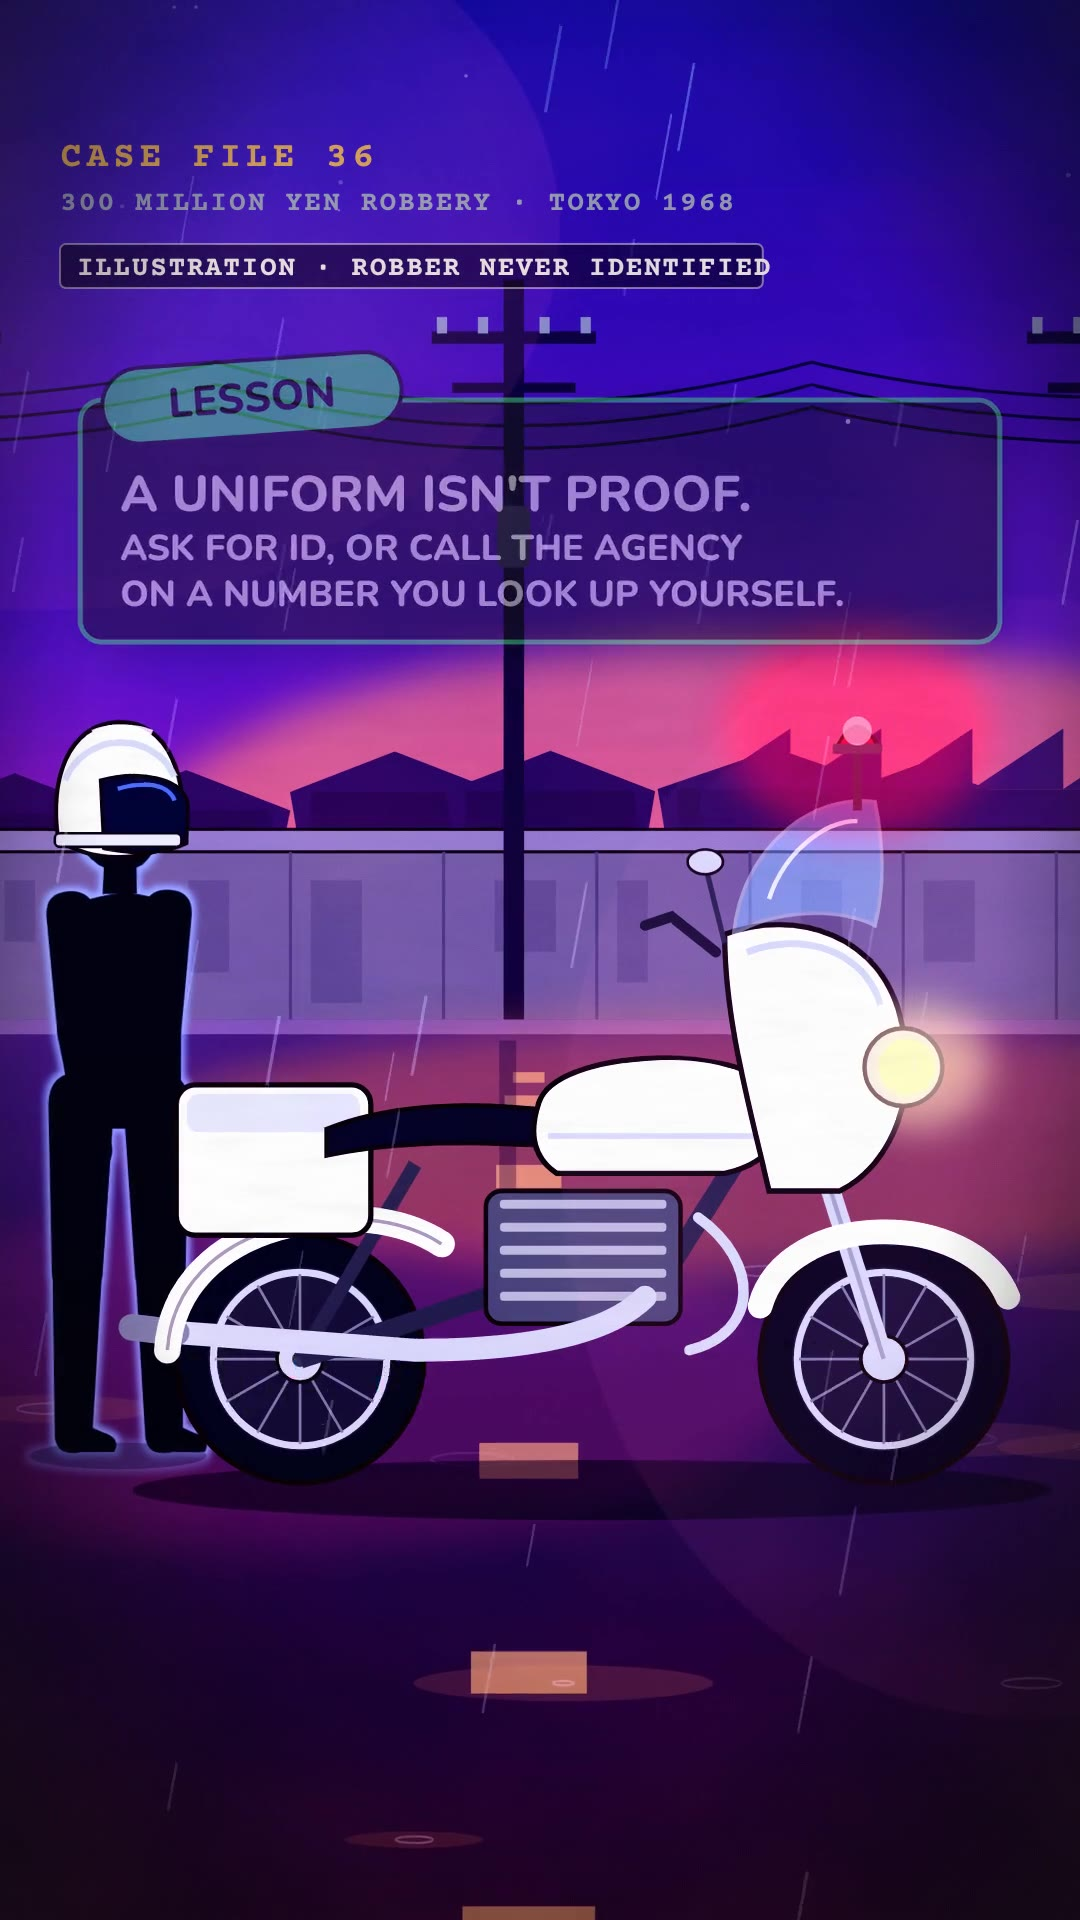
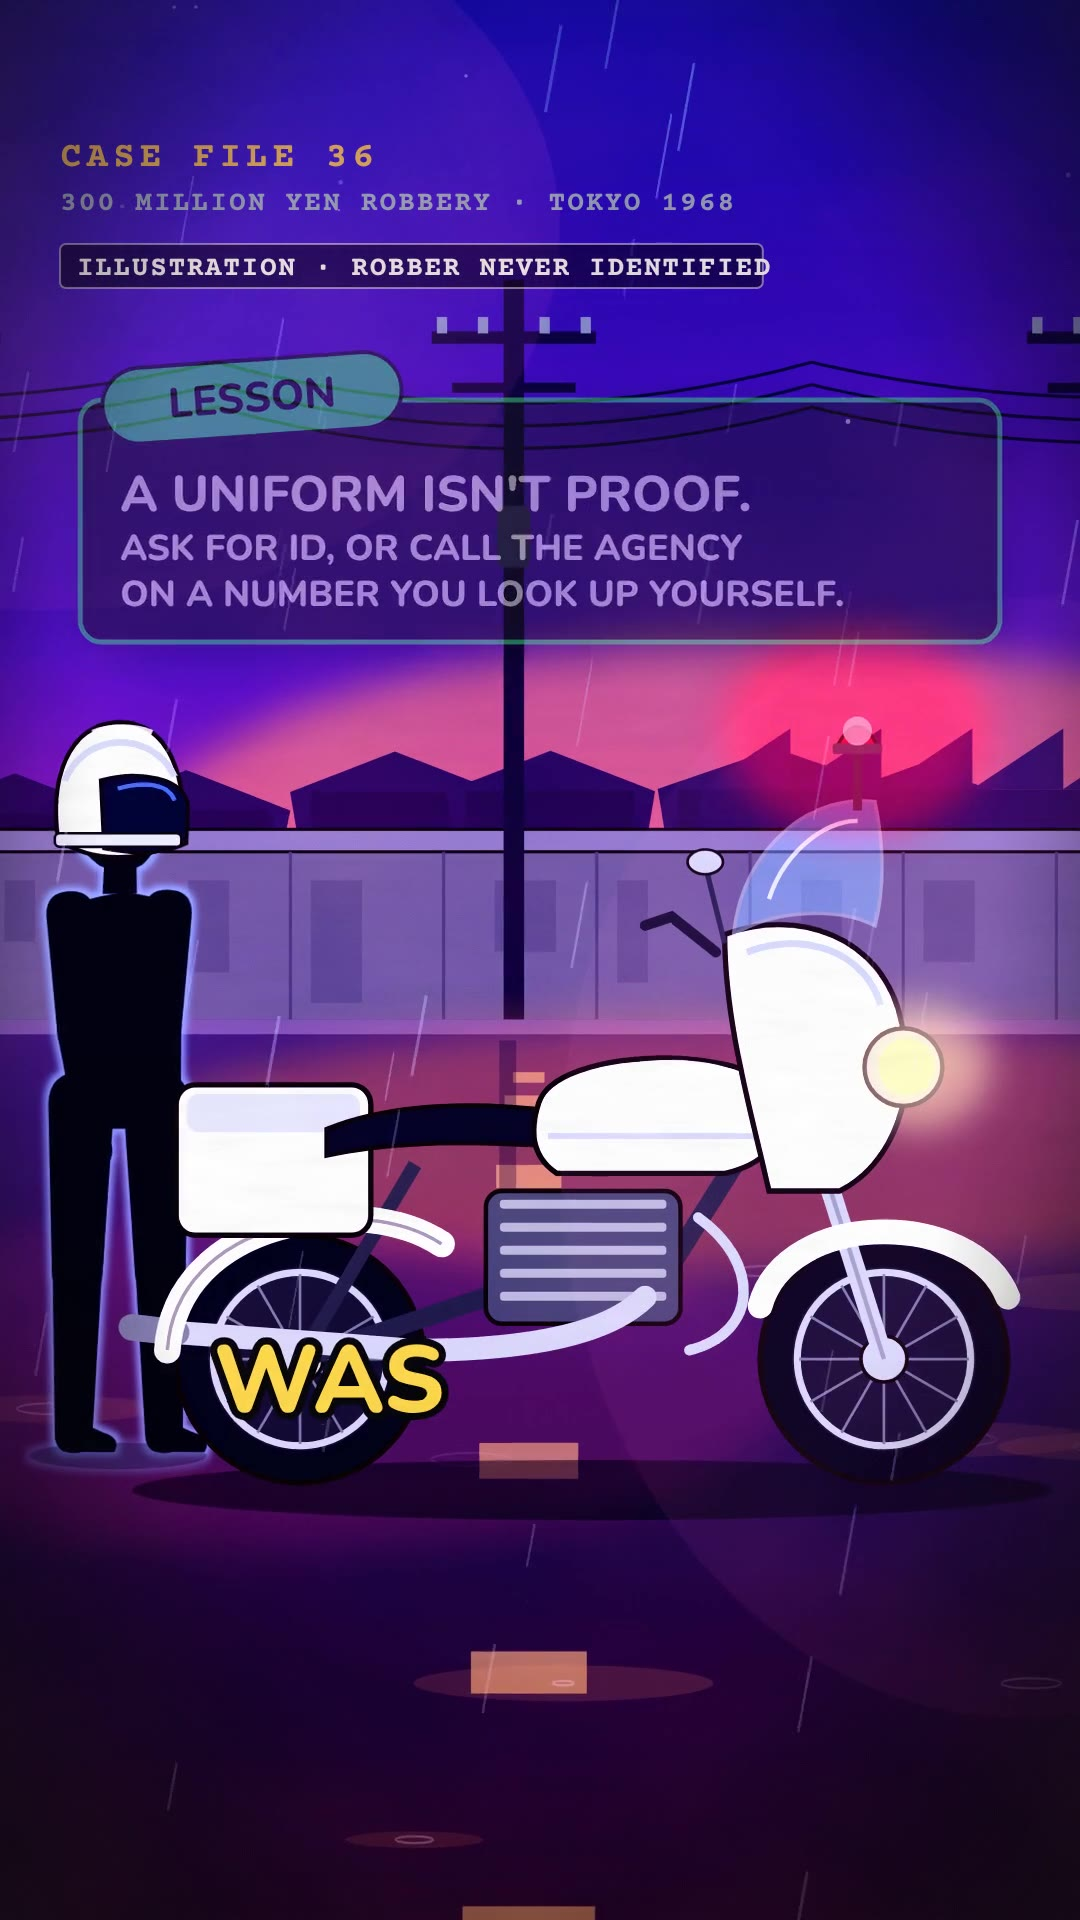
Case File 36 (yen heist, 60 fps vivid) re-verified with the corrected lesson line
Claude-Session: https://claude.ai/code/session_0181YiZCGX4kUBAdb7SwkZ2H

Changed region(s): [[0.1833, 0.6875, 0.4278, 0.75]]

diff --git a/series/true-crime-cinematic/production_log.md b/series/true-crime-cinematic/production_log.md
@@ -226,3 +226,7 @@
 - 2026-10-14 03:26:39 tcv39-baiyin: VERIFIED -> series/true-crime-cinematic/output/true_crime_39_baiyin.mp4 (52.1s, 42.9 MB, sha256 69e8037ecb24)
 - 2026-10-14 03:26:39 produce 36 --force: regenerating episode data
 - 2026-10-14 03:26:39 tcv36-yen-heist: rendering (final60, seed 1)
+- 2026-10-14 04:04:30 tcv36-yen-heist: rendered in 2271s
+- 2026-10-14 04:05:37 tcv36-yen-heist: VERIFIED -> series/true-crime-cinematic/output/true_crime_36_yen_heist.mp4 (52.0s, 45.1 MB, sha256 409f7a024e5c)
+- 2026-10-14 04:05:37 produce 38 --force: regenerating episode data
+- 2026-10-14 04:05:37 tcv38-scam-city: rendering (final60, seed 1)

diff --git a/series/true-crime-cinematic/qa/true_crime_36/timed_script.md b/series/true-crime-cinematic/qa/true_crime_36/timed_script.md
@@ -32,5 +32,5 @@
   NARRATOR [42.86s]: And the fake cop was never caught.
 
 [ 45.00s –  51.95s] s10_end
-  NARRATOR [45.25s]: The lesson? A uniform isn't proof.
-  NARRATOR [47.77s]: All he needed was a fake police motorcycle.
+  NARRATOR [45.25s]: The lesson? A uniform is not proof.
+  NARRATOR [47.70s]: All he needed was a fake police motorcycle.
